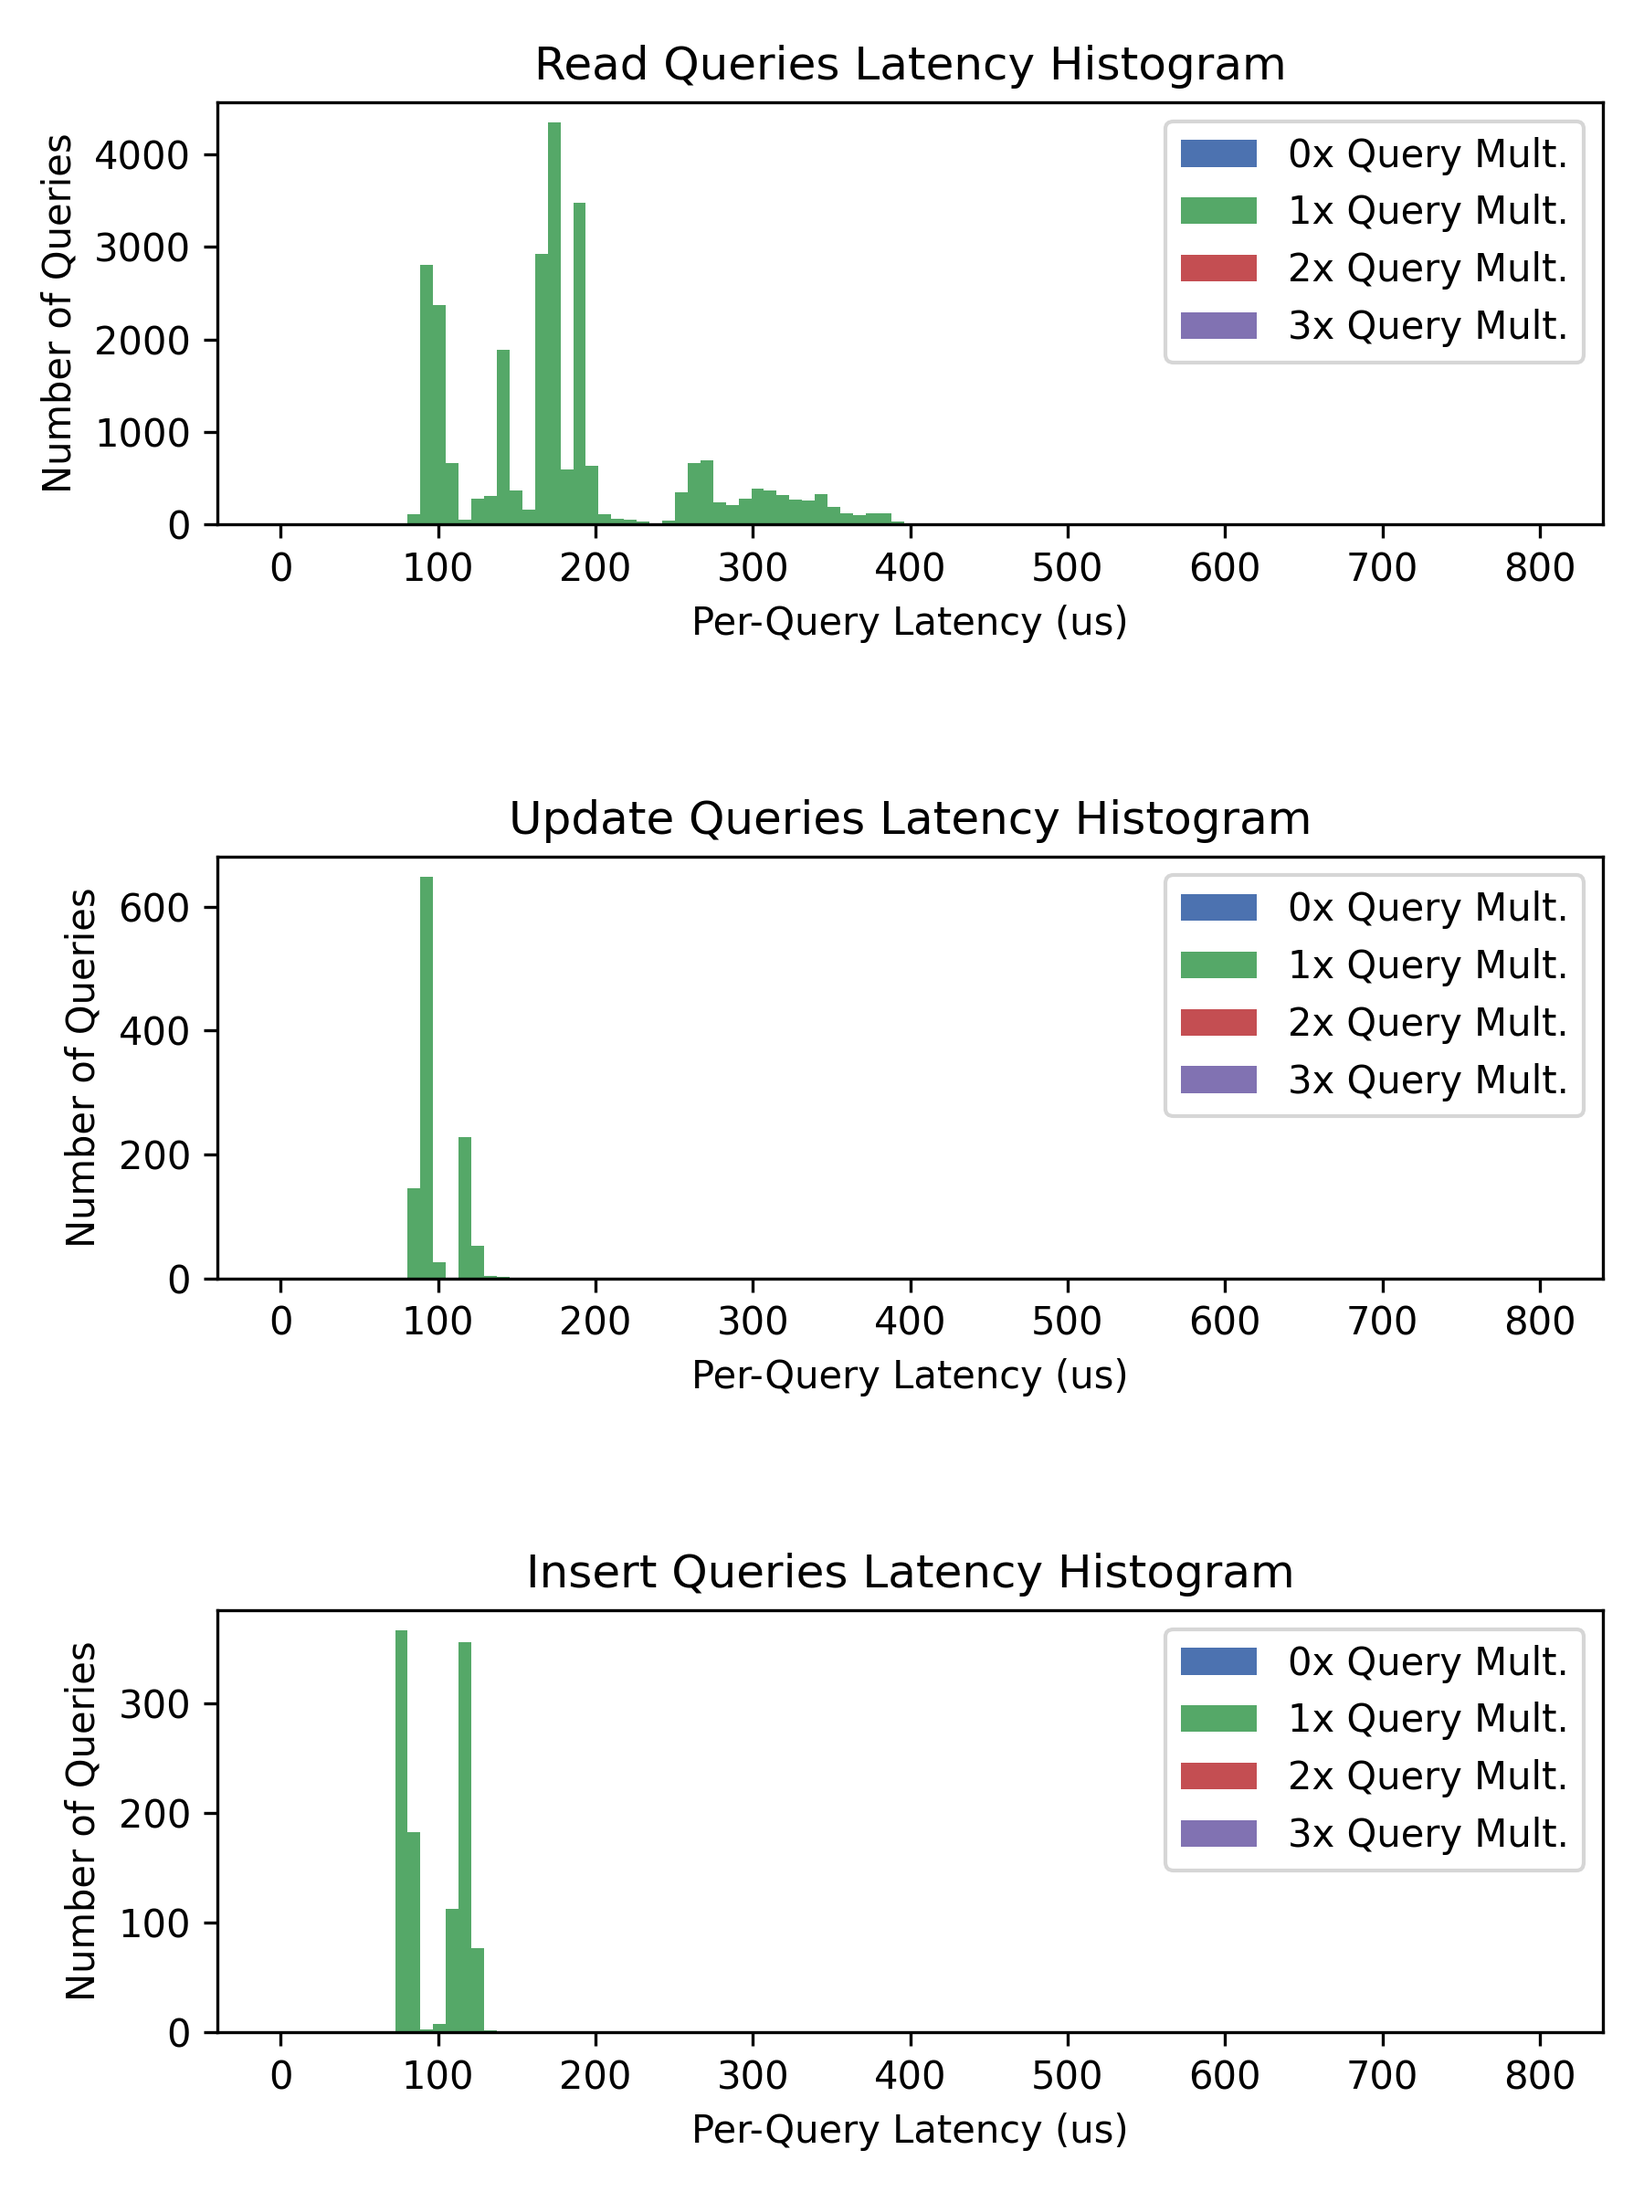
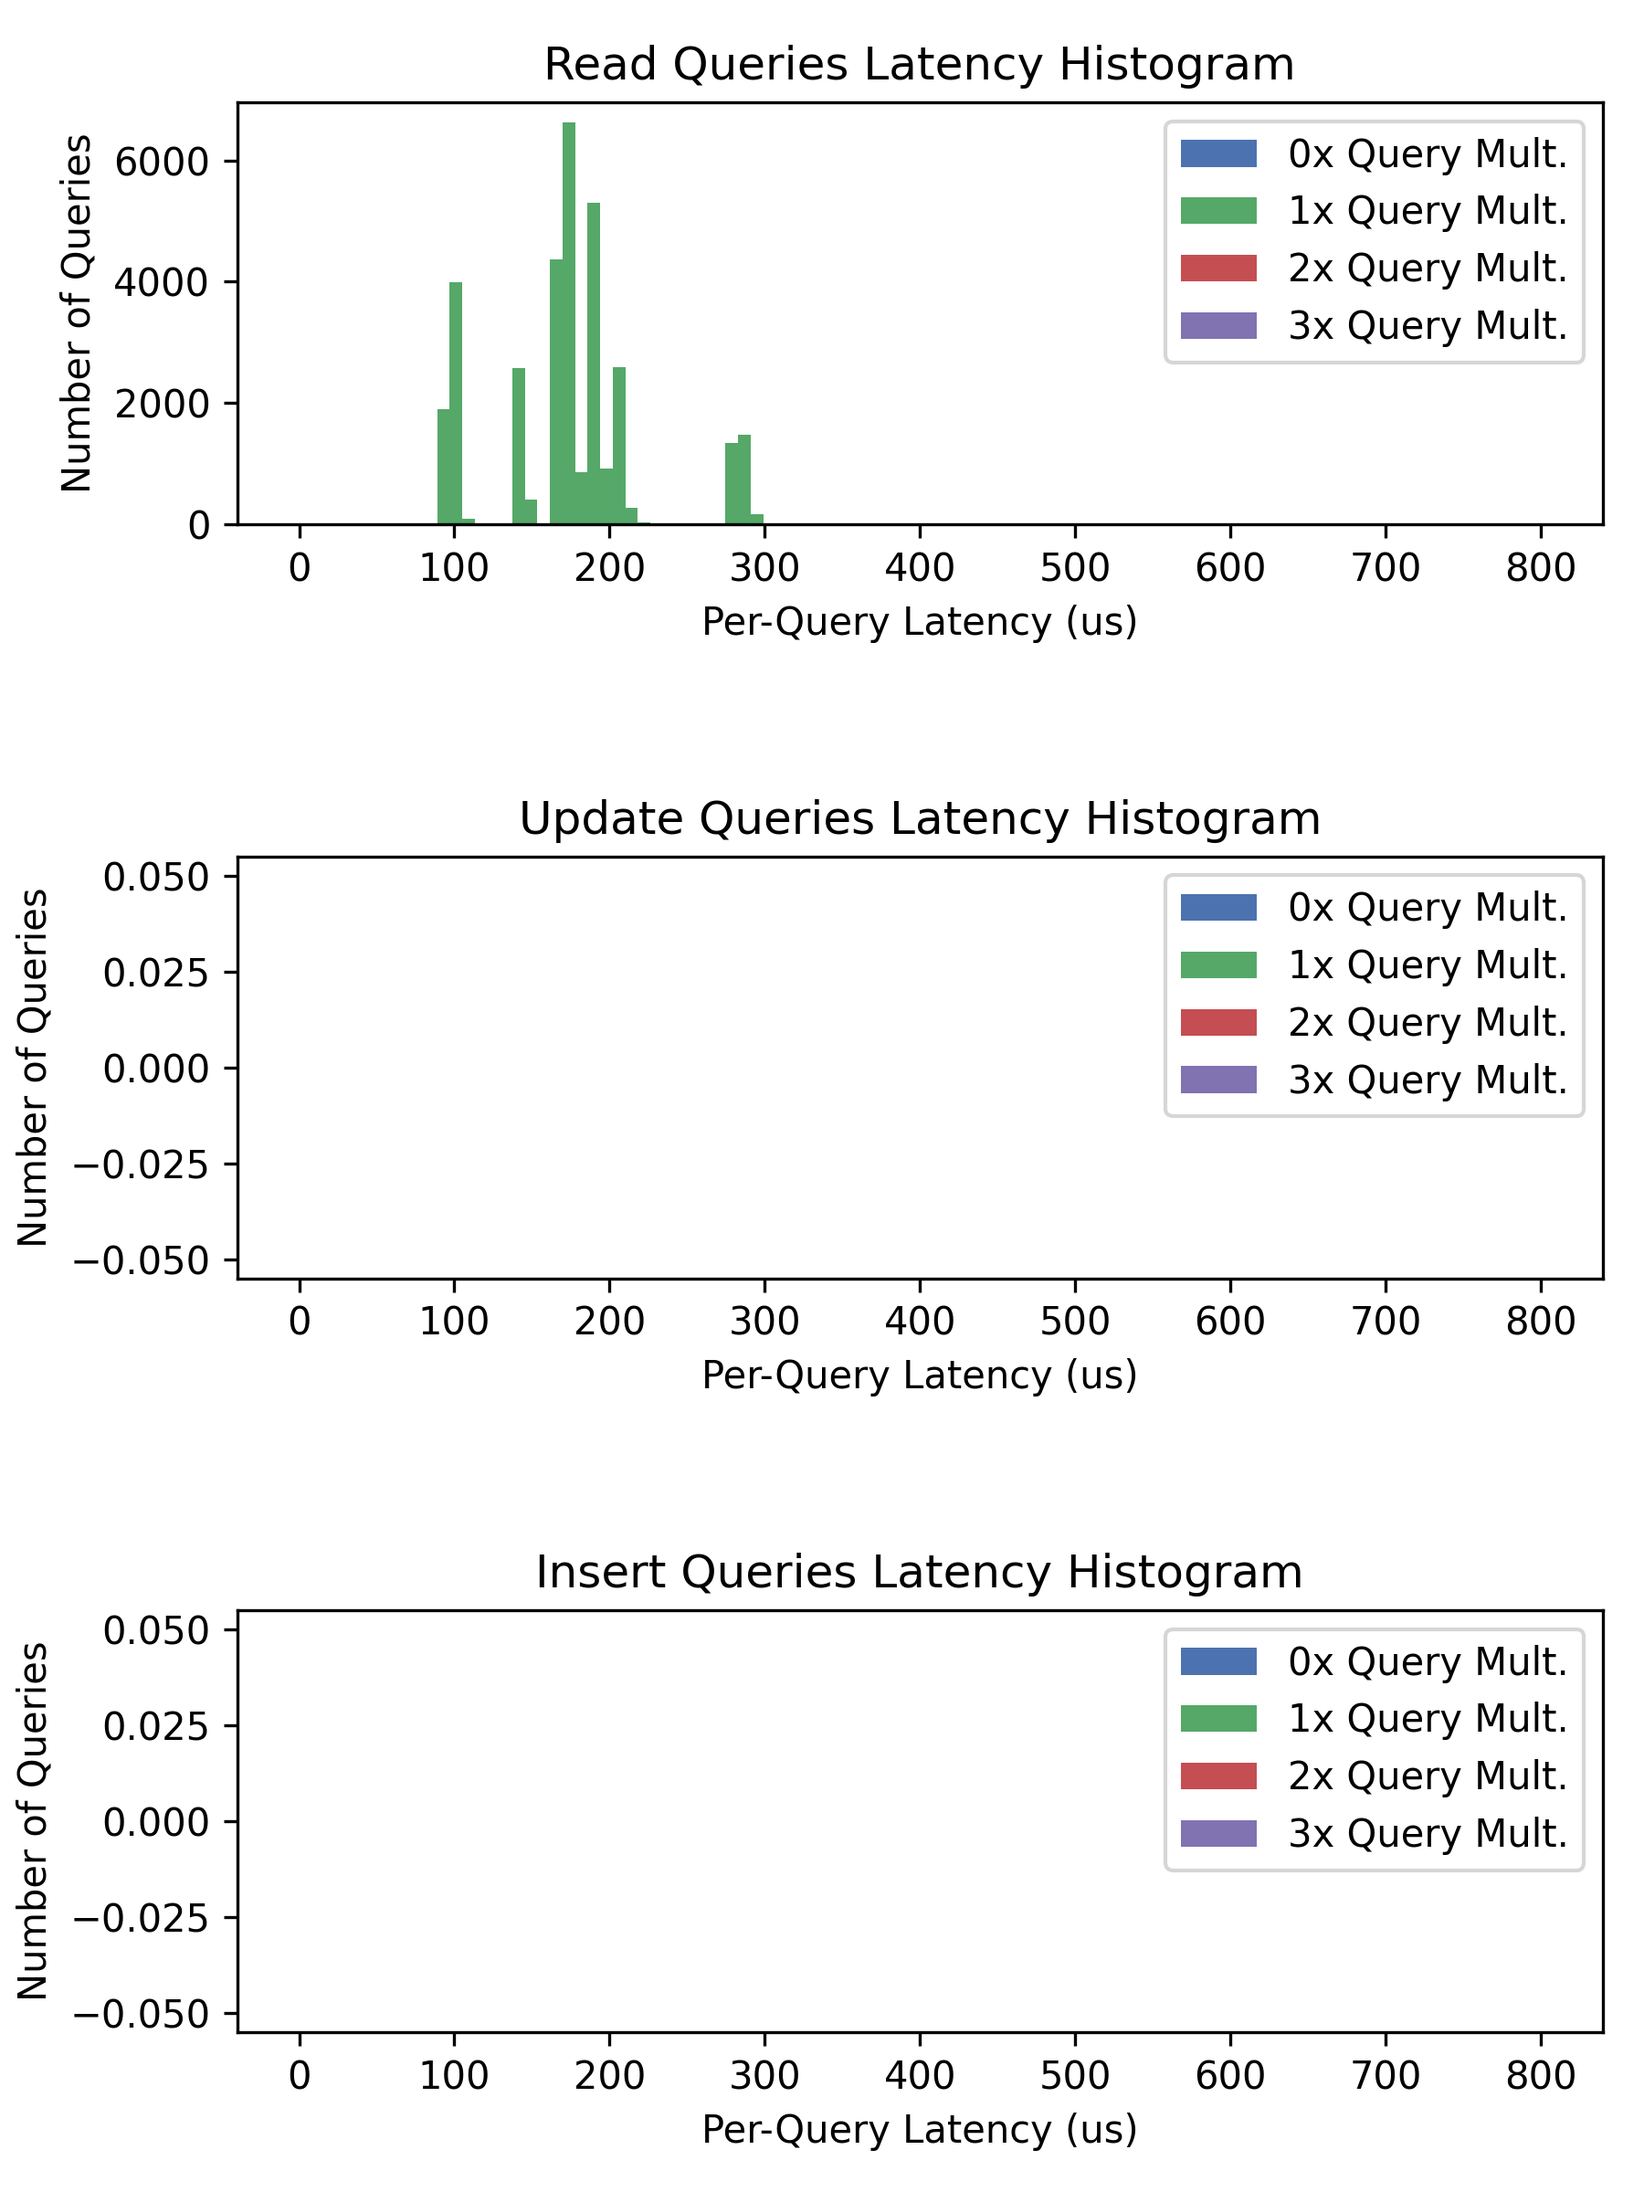
histograms with only reads

diff --git a/decor/applications/lobsters/microbenchmarks/main.rs b/decor/applications/lobsters/microbenchmarks/main.rs
@@ -268,7 +268,7 @@ fn main() {
         let story= stories[((i+1)%nstories) as usize];
         let comments= comments[((i+2)%ncomments) as usize];
         match rng.gen_range(0, 10) {
-            0..=5 => queriers::frontpage::query_frontpage(&mut db, Some(user)).unwrap(),
+            0..=9 => queriers::frontpage::query_frontpage(&mut db, Some(user)).unwrap(),
             6 => {
                 queriers::post_story::post_story(&mut db, Some(user), total_stories + 1, "Dummy title".to_string()).unwrap();
                 total_stories += 1;
